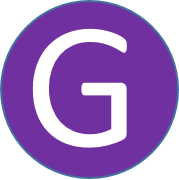
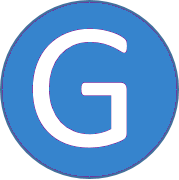
refinements on pages done color consistency issue half done the order issue

diff --git a/src/main/webapp/browse.html b/src/main/webapp/browse.html
@@ -34,6 +34,7 @@
           media="screen">
     <link rel="stylesheet" href="//www.ebi.ac.uk/web_guidelines/css/compliance/develop/984-24-col-fluid.css"
           type="text/css" media="screen">
+    <link rel="stylesheet" href="//maxcdn.bootstrapcdn.com/font-awesome/4.3.0/css/font-awesome.min.css">
     <link type="text/css" href="css/prider.css" rel="stylesheet">
     <link type="text/css" href="css/ddi.css" rel="stylesheet">
 
@@ -444,22 +445,22 @@
                         <div class="col_pager">
                             <div class="pr-pager">
                                 Page
-                                <a href="" ng-click="pagination(1,'default','default')"
+                                <a href="" ng-click="pagination(1,'default','default','default')"
                                    ng-show="current_page>3 && max_page_no>5">{{1+"<<"}}</a>
-                                <!-- <li><a href="" class="btn " ng-repeat="page in pages" ng-click="pagination(page,'default','default')" ng-disabled="current_page===page">{{page}}</a></li> -->
+                                <!-- <li><a href="" class="btn " ng-repeat="page in pages" ng-click="pagination(page,'default','default','default')" ng-disabled="current_page===page">{{page}}</a></li> -->
                                 <a href="" class="" ng-repeat="page in pages"
-                                   ng-click="pagination(page,'default','default')"
+                                   ng-click="pagination(page,'default','default','default')"
                                    ng-class="{'disabled':current_page===page}">{{page}}</a>
-                                <a href="" ng-click="pagination(max_page_no,'default','default')"
+                                <a href="" ng-click="pagination(max_page_no,'default','default','default')"
                                    ng-show="current_page<=max_page_no-3 && max_page_no>5">{{">>"+max_page_no}}</a>
                             </div>
                             <div class="pr-page-size">
 
                                 Page size
-                                <a href="" ng-click="pagination(1,'10','default')" ng-class="{'disabled':page_size==10}">10</a>
-                                <a href="" ng-click="pagination(1,'20','default')" ng-class="{'disabled':page_size==20}">20</a>
-                                <a href="" ng-click="pagination(1,'50','default')" ng-class="{'disabled':page_size==50}">50</a>
-                                <a href="" ng-click="pagination(1,'100','default')"
+                                <a href="" ng-click="pagination(1,'10','default','default')" ng-class="{'disabled':page_size==10}">10</a>
+                                <a href="" ng-click="pagination(1,'20','default','default')" ng-class="{'disabled':page_size==20}">20</a>
+                                <a href="" ng-click="pagination(1,'50','default','default')" ng-class="{'disabled':page_size==50}">50</a>
+                                <a href="" ng-click="pagination(1,'100','default','default')"
                                    ng-class="{'disabled':page_size==100}">100</a>
 
                             </div>
@@ -476,22 +477,29 @@
                             <ul class="search-header" id="sort-by-menu">
                                 <li>Sort by:</li>
                                 <li>
-                                    <a href="" ng-click="pagination(1,'default','name')"
-                                       ng-class="{'disabled':sort_field==='name'}">Title</a>
-                                </li>
-                                <li>
-                                    <a href="" ng-click="pagination(1,'default','id')"
+                                    <a href="" ng-click="pagination(1,'default','id','default')"
                                        ng-class="{'disabled':sort_field==='id'}">Accession</a>
                                 </li>
                                 <li>
-                                    <a href="" ng-click="pagination(1,'default','relevance')"
+                                    <a href="" ng-click="pagination(1,'default','relevance','default')"
                                        ng-class="{'disabled':sort_field==='relevance'}">Relevance</a>
                                 </li>
                                 <li>
-                                    <a href="" ng-click="pagination(1,'default','publication_date')"
+                                    <a href="" ng-click="pagination(1,'default','publication_date','default')"
                                        ng-class="{'disabled':sort_field==='publication_date'}">Publication date</a>
                                 </li>
-
+                                <li>
+                                    <a href="" ng-click="pagination(1,'default','default','ascending')"
+                                         ng-class="{'disabled':sort_order==='ascending'}">
+                                        <i class="fa fa-arrow-circle-o-down " style="font-size:19px;"></i>
+                                    </a>
+                                </li>
+                                <li>
+                                    <a href="" ng-click="pagination(1,'default','default','descending')"
+                                         ng-class="{'disabled':sort_order==='descending'}">
+                                        <i class="fa fa-arrow-circle-o-up" style="font-size:19px"></i>
+                                    </a>
+                                </li>
                             </ul>
                         </div>
                     </div>
@@ -509,11 +517,8 @@
                                                  ng-show="metabolomics_list.indexOf(dataset.source)>-1"/>
                                             <img src="css/Genomics2.png"
                                                  ng-show="genomics_list.indexOf(dataset.source)>-1"/>
-                                                 <a href={{"dataset.html#/"+dataset.id+"*"+repositories[dataset.source]}}><span ng-bind-html="dataset['title']|highlight:highlight_terms"></span></a>
+                                                 <a href={{"dataset.html#/"+dataset.id+"*"+dataset.source}}><span ng-bind-html="dataset['title']|highlight:highlight_terms"></span></a>
                                         </div>
-                                        <!--         <div class="project-widget-title">
-                                                    {{dataset["title"]}}
-                                                </div> -->
 
                                         <div class="project-widget-paragraph align-justify">
                                             <b>Project description:</b>
@@ -539,11 +544,11 @@
                                         </div>
 
                                         <div class="project-widget-paragraph">
-                                            <span ng-bind-html="dataset.id | highlight:highlight_terms"></span> (<span ng-bind-html = "repositories[dataset.source]|highlight:highlight_terms"> </span> )
+                                            <span ng-bind-html="dataset.id | highlight:highlight_terms"></span> (<span style="font-weight:bold" ng-bind-html = "repositories[dataset.source]|highlight:highlight_terms"> </span> )
                                         </div>
 
                                         <div class="project-widget-paragraph" ng-show="dataset.publicationDate">
-                                            <b>Made public: </b>
+                                            <b>Publication date: </b>
                                             <span ng-bind-html = "dataset['publicationDate'].substr(0,4)|highlight:highlight_terms"></span>{{"-"+dataset['publicationDate'].substr(4,2)+"-"+dataset['publicationDate'].substr(6,2)}}
                                         </div>
 

diff --git a/src/main/webapp/js/search/ddi.metadata.search.js b/src/main/webapp/js/search/ddi.metadata.search.js
@@ -171,6 +171,7 @@ angular.module('ddiApp').service('results', ['_', '$http', '$location', '$window
 //                        '&size=' + search_config.page_size +
         '&size={PAGESIZE}' +
         '&sort_field={SORTFIELD}' +
+        '&order={ORDER}' +
         '&start={START}',
 
         'proxy': search_config.ddi_base_url +
@@ -194,10 +195,11 @@ angular.module('ddiApp').service('results', ['_', '$http', '$location', '$window
      * Launch EBeye search.
      * `start` determines the range of the results to be returned.
      */
-    this.search = function (query, start, page_size, sort_field) {
+    this.search = function (query, start, page_size, sort_field, sort_order) {
         start = start || 0;
         page_size = page_size || 10;
         sort_field = sort_field || 'id';
+        sort_order = sort_order || 'ascending';
         display_search_interface();
         display_spinner();
         update_page_title();
@@ -205,6 +207,7 @@ angular.module('ddiApp').service('results', ['_', '$http', '$location', '$window
         query_url = get_query_url(query, start);
 //        execute_ebeye_search(query_url, start === 0);
         execute_ebeye_search(query_url, true);
+        console.log("get"+query_url);
         /**
          * Display search spinner if not a "load more" request.
          */
@@ -239,7 +242,7 @@ angular.module('ddiApp').service('results', ['_', '$http', '$location', '$window
             }
             ;
 
-            var ebeye_url = query_urls.ebeye_search.replace('{QUERY}', query).replace('{START}', start).replace('{PAGESIZE}', page_size).replace('{SORTFIELD}', newSortField);
+            var ebeye_url = query_urls.ebeye_search.replace('{QUERY}', query).replace('{START}', start).replace('{PAGESIZE}', page_size).replace('{SORTFIELD}', newSortField).replace('{ORDER}',sort_order);
 //            console.log(ebeye_url);
             //    var url = query_urls.proxy.replace('{EBEYE_URL}', encodeURIComponent(ebeye_url));
             //    return url;
@@ -445,9 +448,9 @@ angular.module('ddiApp').service('results', ['_', '$http', '$location', '$window
     /**
      * Load more results starting from the last loaded index.
      */
-    this.load_more_results = function (start, page_size, sort_field) {
+    this.load_more_results = function (start, page_size, sort_field, sort_order) {
         query = $location.search().q;
-        this.search(query, start, page_size, sort_field);
+        this.search(query, start, page_size, sort_field, sort_order);
     };
 
     /**
@@ -557,6 +560,7 @@ angular.module('ddiApp').controller('ResultsListCtrl', ['$scope', '$location', '
     $scope.show_export_error = false;
     $scope.$root.page_size = 10;
     $scope.$root.sort_field = 'id';
+    $scope.$root.sort_order = 'ascending';
     $scope.pages = [0, 0];
     $scope.max_page_no = 1;
 
@@ -626,7 +630,6 @@ angular.module('ddiApp').controller('ResultsListCtrl', ['$scope', '$location', '
 
     /**
      * Fired when "Load more" button is clicked.
-     */
     $scope.load_more_results = function (page, page_size, sort_field) {
         if (page_size !== 'default') {
             $scope.$root.page_size = page_size
@@ -646,8 +649,9 @@ angular.module('ddiApp').controller('ResultsListCtrl', ['$scope', '$location', '
 
         results.load_more_results(start, page_size, sort_field);
     };
+     */
 
-    $scope.pagination = function (current_page, page_size, sort_field) {
+    $scope.pagination = function (current_page, page_size, sort_field, sort_order) {
         if (page_size !== 'default') {
             $scope.$root.page_size = page_size
         }
@@ -662,11 +666,18 @@ angular.module('ddiApp').controller('ResultsListCtrl', ['$scope', '$location', '
             sort_field = $scope.$root.sort_field;
         }
 
+        if (sort_order !== 'default') {
+            $scope.$root.sort_order = sort_order;
+        }
+        if (sort_order === 'default') {
+            sort_order = $scope.$root.sort_order;
+        }
+
         $scope.$root.current_page = current_page;
 
         var start = (current_page - 1) * page_size;
 
-        results.load_more_results(start, page_size, sort_field);
+        results.load_more_results(start, page_size, sort_field, sort_order);
 
     };
 
@@ -943,7 +954,7 @@ angular.module('ddiApp').controller('QueryCtrl', ['$scope', '$location', '$windo
             } else {
                 // the new url is a search result page, launch that search
                 $scope.query.text = $location.search().q;
-                results.search($location.search().q, 0, $scope.$root.page_size, $scope.$root.sort_field);
+                results.search($location.search().q, 0, $scope.$root.page_size, $scope.$root.sort_field, $scope.$root.sort_order);
                 $scope.query.submitted = false;
             }
         }

diff --git a/src/main/webapp/js/pieCharts.js b/src/main/webapp/js/pieCharts.js
@@ -321,7 +321,6 @@ var pie_charts_repos_omics = function () {
         /*
          * prepare the treemap data
          */
-        console.log(repos);
         var proteomics_list = "pride,peptideatlas,peptide_atlas,massive,PRIDE,PeptideAtlas,MassIVE";
         var metabolomics_list = "MetaboLights Dataset,MetaboLights,metabolights,metabolights_dataset,MetabolomicsWorkbench, Metabolomics Workbench, Metabolome Workbench";
         var genomics_list = "ega,EGA";
@@ -408,7 +407,7 @@ var pie_charts_repos_omics = function () {
         var formdiv = body.append('div');
         formdiv
             .attr("class", "center")
-            .attr("style", "width:250px;margin-top:15px")
+            .attr("style", "width:150px;margin-top:15px")
         ;
 
         var radio_form = formdiv.append('form');
@@ -445,6 +444,7 @@ var pie_charts_repos_omics = function () {
             .append('span')
             .append('span')
         ;
+        /*
         radio_form
             .append('input')
             .attr('type', 'radio')
@@ -459,7 +459,7 @@ var pie_charts_repos_omics = function () {
             .append('span')
             .append('span')
         ;
- 
+         */
         d3.select("#" + piechartname + "_form").select('input[value=Repos]').property('checked', true)
 
         d3.select("#" + piechartname + "_form").selectAll('input')
@@ -525,11 +525,10 @@ var pie_charts_repos_omics = function () {
 
 
         var color = d3.scale.category20();
-        var treemap_color = {"Proteomics":"lightgreen","Metabolomics":"#FF6666", "Genomics":"#9966FF"};
+        var treemap_color = {"Proteomics":"#2CA02C","Metabolomics":"#FF7F0E", "Genomics":"#1f77b4"};
 
         /*
          * draw the treemap
-         */
         var margin = {top: 40, right: 10, bottom: 10, left: 10};
         treemap_width = width - margin.left - margin.right;
         treemap_height = height - margin.top - margin.bottom;
@@ -541,6 +540,7 @@ var pie_charts_repos_omics = function () {
             .attr("class", "tooltip")
             .style("opacity", 0);   
 
+         */
 
         change();
 
@@ -552,27 +552,27 @@ var pie_charts_repos_omics = function () {
             if (value == 'Omics') {
                 data = omicstype;
                 text_total.text("Total:" + total_omics);
-                text_unavail.text("Unavailable:" + unavailableomics.value);
+//                text_unavail.text("Unavailable:" + unavailableomics.value);
                 url_pre = 'browse.html#/search?q=*:* AND omics_type:"';
                 // text_total.text("Total:"+total_omics);
                 svg.attr("visibility", null);
-                d3.select("#treemap_div").remove();
+//                d3.select("#treemap_div").remove();
             }
            if (value == 'Repos') {
                 data = repos;
                 text_total.text("Total:" + total_repos);
-                text_unavail.text("");
+//                text_unavail.text("");
                 url_pre = 'browse.html#/search?q=*:* AND repository:"';
                 // text_total.text("Total:"+total_repos);
                 svg.attr("visibility", null);
-                d3.select("#treemap_div").remove();
+//                d3.select("#treemap_div").remove();
             }
-           if (value == 'Treemap') {
+/*           if (value == 'Treemap') {
                 svg.attr("visibility", "hidden");
                 draw_treemap();
                 return;
             }
- 
+*/ 
 
             text_name.text("");
             text_value.text("");
@@ -587,6 +587,7 @@ var pie_charts_repos_omics = function () {
             slice.enter()
                 .insert("path")
                 .style("fill", function (d, i) {
+                    if (value === 'Omics') return treemap_color[d.data.name];
                     return color(i);
                 })
                 .attr("class", "slice")
@@ -604,6 +605,7 @@ var pie_charts_repos_omics = function () {
                     var temptext1 = d.data.name;
                     var temptext2 = d.data.value;
                     colorinside = color(i);
+                    if (value === 'Omics') colorinside = treemap_color[d.data.name];
                     svg.select("#insidecycle")
                         .style("fill", colorinside)
                         .style("opacity", ".8");
@@ -614,6 +616,7 @@ var pie_charts_repos_omics = function () {
                 })
                 .on("mouseout", function (d, i) {
                     colorinside = color(i);
+                    if (value === 'Omics') colorinside = treemap_color[d.data.name];
                     svg.select("#insidecycle")
                         .style("fill", colorinside)
                         .style("opacity", ".95");

diff --git a/src/main/webapp/dataset.html b/src/main/webapp/dataset.html
@@ -311,11 +311,11 @@
                     <!--dataset_protocol_bottom-->
 
                     <div class="row" id="dataset_bottom_repository" style="margin-top:10px">
-                        <div class="col-md-5" style="margin-left:10px">
+                        <div class="col-md-6" style="margin-left:10px">
                             Repository:<a href={{dataset.full_dataset_link}}>{{acc}}</a> [As supplied by <a
-                                href={{database_urls[domain]}}>{{domain}}</a>]
+                                href={{database_urls[domain]}}>{{repositories[domain]}}</a>]
                         </div>
-                        <div class="col-md-5" style="margin-left:10px">
+                        <div class="col-md-4" style="margin-left:10px">
                             <p>Date:
                             {{dataset['publicationDate'].substr(0,4)+' '+month_names_short[dataset['publicationDate'].substr(4,2)-1]+' '}} {{dataset['publicationDate'].substr(6,2)!=='00'?dataset['publicationDate'].substr(6,2):''}}</p>
                         </div>
@@ -612,7 +612,7 @@
                             </div>
 
                             <div class="project-widget-paragraph" ng-show="relatedDataset.publicationDate">
-                                <b>Made public: </b>
+                                <b>publication date: </b>
                                 {{relatedDataset['publicationDate'].substr(0,4)+"-"+relatedDataset['publicationDate'].substr(4,2)+"-"+relatedDataset['publicationDate'].substr(6,2)}}
                             </div>
                         </div>

diff --git a/src/main/webapp/databases.html b/src/main/webapp/databases.html
@@ -281,8 +281,7 @@
                         </div>
 
                         <div class="panel-footer small">
-                            <a rel="nofollow" href='browse.html#/search?q=*:* AND repository:"MetaboLights"'><em>{{databases["MetaboLights
-                                Dataset"]}}</em> datasets</a>
+                            <a rel="nofollow" href='browse.html#/search?q=*:* AND repository:"MetaboLights"'><em>{{databases["MetaboLights Dataset"]}}</em> datasets</a>
                         </div>
 
                     </div>
@@ -372,8 +371,7 @@
 
                         <div class="panel-footer small">
                             <a rel="nofollow"
-                               href='browse.html#/search?q=*:* AND repository:"MetabolomicsWorkbench"'><em>{{databases["Metabolome
-                                Workbench"]}}</em> datasets</a>
+                               href='browse.html#/search?q=*:* AND repository:"MetabolomicsWorkbench"'><em>{{databases["Metabolome Workbench"]}}</em> datasets</a>
                         </div>
                     </div>
                 </div>

diff --git a/src/main/webapp/index.html b/src/main/webapp/index.html
@@ -475,7 +475,6 @@
 
 
 <script src="js/vendor/angular/angular.js"></script>
-<script src="js/vendor/angular/angular-route.js"></script>
 <script src="js/vendor/angular/angular-animate.min.js"></script>
 <script src="js/vendor/angular/loading-bar/loading-bar.js"></script>
 <script src="js/vendor/underscore/underscore-min.js"></script>
@@ -485,6 +484,7 @@
 <script src="js/wordCloud.js"></script>
 <script src="js/queue.v1.min.js"></script>
 <!--
+<script src="js/vendor/angular/angular-route.js"></script>
  <script src="js/vendor/angular/angular.min.js"></script>
  <script src="js/gradientPie.js"></script>
  <script src="js/search/metadata.search.js"></script>
